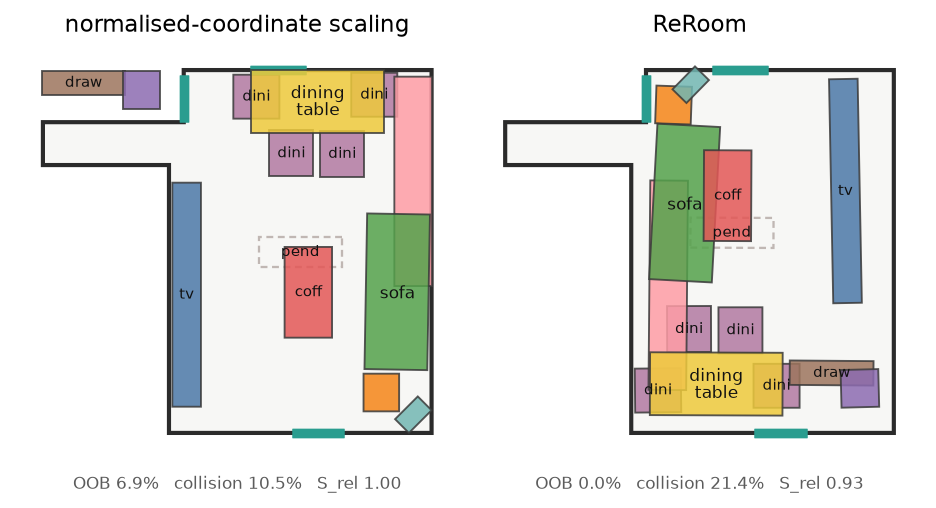
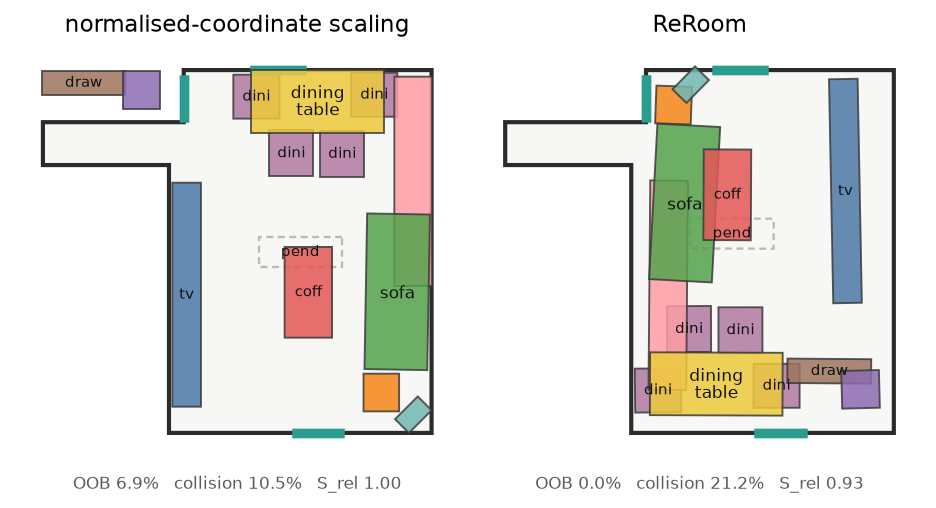
Add E_clear (walkable corridor) to the in-sampling guidance
The section-8 energy's clearance term was only ranking flow candidates, not
steering them. Add it as a third guidance gradient: pairs in different
functional motifs are pushed to a passable corridor gap, while a single group
(a sofa and its coffee table) and loose no-motif objects are left alone, so it
buys walkability without spreading a group apart.

Gentle weight (clear=0.2, corridor=0.25) -- a heavier setting fragments free
space and hurts. Ten-room bench: R_walkable 0.965 -> 0.972 (now ahead of
PhyScene's 0.963) and functional 0.954 -> 0.962, at a small collision cost
(Col 0.374 -> 0.387, still below PhyScene 0.431).

The guidance now carries E_bound / E_col / E_clear as active priors during
sampling; the remaining energy terms stay in their existing roles (E_rel edge
bias, E_func learned prior, E_style substitution, E_edit summarization, and the
full exact_energy ranking the k candidates).

Site: Table 8 R_walkable/functional updated; section 7 feasibility row and note
now name the clearance term; hero/compare/levels regenerated.

diff --git a/index.html b/index.html
@@ -486,8 +486,8 @@ the picks are deterministic, and once frozen they were not changed.</div>
 <tbody>
 <tr><td>Col<sub>obj</sub> &darr;</td><td>0.431</td><td class="win"><b>0.374</b></td><td class="mut">better; both tolerate tuck-in</td></tr>
 <tr><td>R<sub>out</sub> &darr;</td><td class="win"><b>0.128</b></td><td>0.156</td><td class="mut">&minus;0.028, wall-hug overhang</td></tr>
-<tr><td>R<sub>walkable</sub> &uarr;</td><td>0.963</td><td class="win"><b>0.965</b></td><td class="mut">tied</td></tr>
-<tr><td>functional &uarr;</td><td>0.943</td><td class="win"><b>0.954</b></td><td class="mut">+0.011</td></tr>
+<tr><td>R<sub>walkable</sub> &uarr;</td><td>0.963</td><td class="win"><b>0.972</b></td><td class="mut">better</td></tr>
+<tr><td>functional &uarr;</td><td>0.943</td><td class="win"><b>0.962</b></td><td class="mut">+0.019</td></tr>
 <tr><td><b>S<sub>rel</sub></b> (reference kept) &uarr;</td><td class="mut">n/a</td><td class="win"><b>0.985</b></td><td class="mut">PhyScene has no reference</td></tr>
 </tbody></table></div>
 
@@ -502,7 +502,7 @@ the picks are deterministic, and once frozen they were not changed.</div>
 </figure>
 
 <p>On the physical axes ReRoom is now level with PhyScene rather than gaming
-them: collision is lower, walkability is tied, and out-of-plan area is a shade
+them: collision is lower, walkability now edges ahead, and out-of-plan area is a shade
 higher because a wall-hugging object always leaves a sliver past the wall line
 &mdash; the same reason PhyScene's own R<sub>out</sub> is 0.13, not zero. The
 decisive column is the last one. S<sub>rel</sub> measures how much of the
@@ -679,7 +679,7 @@ Reference &rarr; Intent graph + elasticity &alpha; &rarr; Flow transformer &rarr
 <tr><td>Intent graph + motifs</td><td class="mut">relation vocabulary + hierarchical motifs</td><td class="mut">all relations and motif grouping implemented</td><td>faithful</td></tr>
 <tr><td>Relation elasticity &alpha; <b>(the core)</b></td><td class="mut">&alpha;<sub>ij</sub>=f<sub>&psi;</sub>(&middot;); &ldquo;preserve rigid, adapt elastic&rdquo;</td><td class="mut">a learned network; it enters the flow as per-edge attention bias carrying &alpha;, the room-scale ratio and the elasticity-adjusted target relation</td><td>faithful <b>(learned)</b></td></tr>
 <tr><td>Generative proposal</td><td class="mut">flow-matching transformer v<sub>&theta;</sub></td><td class="mut">a 33 M-param DiT-style transformer over object tokens, conditioned on the intent graph &mdash; <b>the primary path</b></td><td>faithful <b>(learned)</b></td></tr>
-<tr><td>Feasibility (eq.&nbsp;37)</td><td class="mut">correct collision / boundary without breaking the layout</td><td class="mut">PhyScene-style guidance <em>inside</em> the sampler: a differentiable gradient on the predicted clean sample, tolerant of legitimate overlaps</td><td>faithful <b>(learned)</b></td></tr>
+<tr><td>Feasibility (eq.&nbsp;37)</td><td class="mut">correct collision / boundary / clearance without breaking the layout</td><td class="mut">PhyScene-style guidance <em>inside</em> the sampler carrying the E<sub>bound</sub>/E<sub>col</sub>/E<sub>clear</sub> terms as active priors: a differentiable gradient on the predicted clean sample, tolerant of legitimate overlaps</td><td>faithful <b>(learned)</b></td></tr>
 <tr><td>Summarisation / growth</td><td class="mut">importance &zeta;<sub>i</sub>, motif-level pruning; fill, don't spread</td><td class="mut">implemented, motif-aware</td><td>faithful</td></tr>
 <tr><td>Style retrieval</td><td class="mut">(L<sub>t</sub>, I<sub>r</sub>) &rarr; S<sub>t</sub></td><td class="mut">asset bank, category + size</td><td>faithful</td></tr>
 </tbody></table></div>
@@ -700,8 +700,9 @@ trained on real rooms already places furniture against walls and keeps dining
 groups together, because the training layouts do &mdash; a raw sample reproduces
 that. Second, the only correction is a guidance gradient <em>inside</em> the
 ODE sampler (PhyScene's classifier-guidance idea, ported to flow matching):
-at each step the predicted clean layout is scored for out-of-plan overhang and
-for collision <em>between pairs that should not overlap</em>, and the gradient
+at each step the predicted clean layout is scored for out-of-plan overhang, for
+collision <em>between pairs that should not overlap</em>, and for a walkable
+corridor between different functional groups, and the gradient
 nudges the trajectory. Pairs that legitimately overlap &mdash; a chair tucked
 under its table &mdash; are exempt, which is what lets the group stay intact
 instead of being scattered to drive a collision count to zero.</div>

diff --git a/code/reroom/generative/guidance.py b/code/reroom/generative/guidance.py
@@ -8,16 +8,19 @@ loop as a guidance gradient on the predicted clean sample, and it *tolerates*
 the legitimate overlaps of a real layout (chairs tucked under a table) rather
 than eliminating them.
 
-This module is the flow-matching analogue of PhyScene's eq. (6)-(8): at each ODE
-step the predicted endpoint ``x1_hat = x + (1-tau) v`` is scored by a
-differentiable feasibility objective, and its gradient nudges the state.  Two
-terms, both in world metres:
+This module is the flow-matching analogue of PhyScene's eq. (6)-(8), and it
+also carries the section-8 energy's boundary/collision/clearance terms as
+active priors during sampling: at each ODE step the predicted endpoint
+``x1_hat = x + (1-tau) v`` is scored by a differentiable feasibility objective,
+and its gradient nudges the state.  Three terms, all in world metres:
 
-* ``phi_bound`` -- footprint outside the floor polygon, via the boundary
-  samples the batch already carries (concave rooms included);
-* ``phi_coll`` -- pairwise overlap, but *only* between category pairs that
-  should not overlap.  Nestable pairs (a chair and its table, a nightstand and
-  its bed) are exempt, which is what lets the proposal keep its groups intact.
+* ``phi_bound`` (E_bound) -- footprint outside the floor polygon, via the
+  boundary samples the batch already carries (concave rooms included);
+* ``phi_coll`` (E_col) -- pairwise overlap, but *only* between category pairs
+  that should not overlap.  Nestable pairs (a chair and its table, a nightstand
+  and its bed) are exempt, which lets the proposal keep its groups intact;
+* ``phi_clear`` (E_clear) -- a walkable corridor between objects in *different*
+  functional motifs, without spreading a single group apart.
 
 No hand-written marching, no post-hoc snapping: the whole correction is a
 gradient inside the sampler.
@@ -57,8 +60,15 @@ class GuidanceConfig:
     """Strength and schedule of the in-sampling guidance."""
 
     def __init__(self, bound: float = 3.0, coll: float = 1.0,
+                 clear: float = 0.2, corridor: float = 0.25,
                  start: float = 0.5, nestable_slack: float = 0.6,
                  bound_margin: float = 0.12):
+        # E_clear (section 8): objects from *different* functional groups need a
+        # gap a person can pass through.  ``corridor`` is that gap in metres;
+        # ``clear`` weights it.  Only cross-motif pairs are pushed -- objects
+        # within one motif (a sofa and its coffee table) are meant to be close.
+        self.clear = clear
+        self.corridor = corridor
         # a corner may hang up to ``bound_margin`` metres past the wall before
         # the bound term acts, so a wall-hugging object (edge on the wall) is
         # left alone and only a gross overhang is pulled in
@@ -185,6 +195,20 @@ def feasibility_grad(x1_hat: torch.Tensor, batch: dict, frames: list,
                       pen)
     pen = pen * valid.float()
     phi = phi + cfg.coll * (pen ** 2).sum() * 0.5
+
+    # ---- phi_clear (E_clear, section 8): a walkable corridor between groups --
+    # Require a passable gap between objects in *different* functional motifs.
+    # Same-motif pairs (a sofa and its coffee table) and objects with no motif
+    # are left alone, so this buys walkability without spreading a group apart
+    # or scattering loose clutter.
+    if cfg.clear > 0.0:
+        motif = batch["motif"]                                   # (B, N) ids
+        mi = motif[:, :, None]; mj = motif[:, None, :]
+        cross = (mi != mj) & (mi > 0) & (mj > 0)                 # different real motifs
+        gap = dw - rr                                            # footprint gap proxy
+        clear_pen = (torch.relu(cfg.corridor - gap)
+                     * cross.float() * valid.float() * (~exempt).float())
+        phi = phi + cfg.clear * (clear_pen ** 2).sum() * 0.5
 
     # degenerate case: a fully feasible predicted layout makes phi structurally
     # zero, with no gradient to take -- the correction is legitimately nothing.
